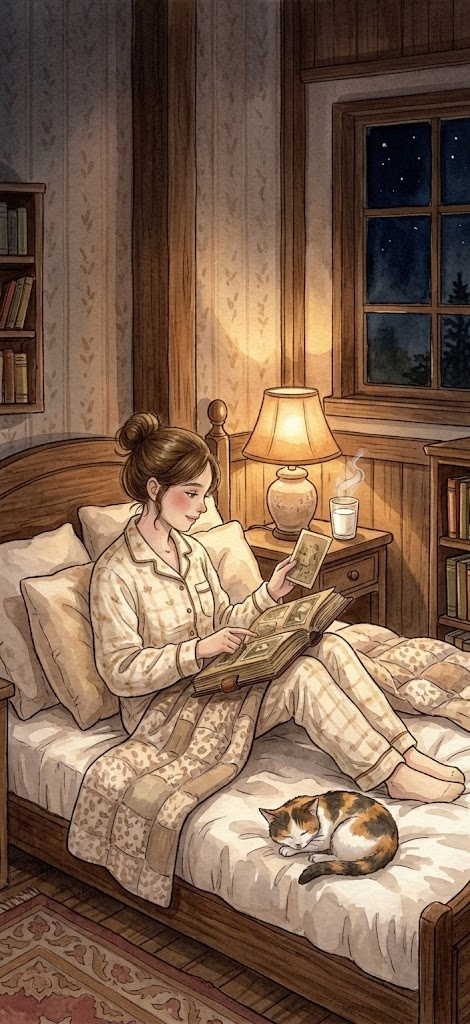
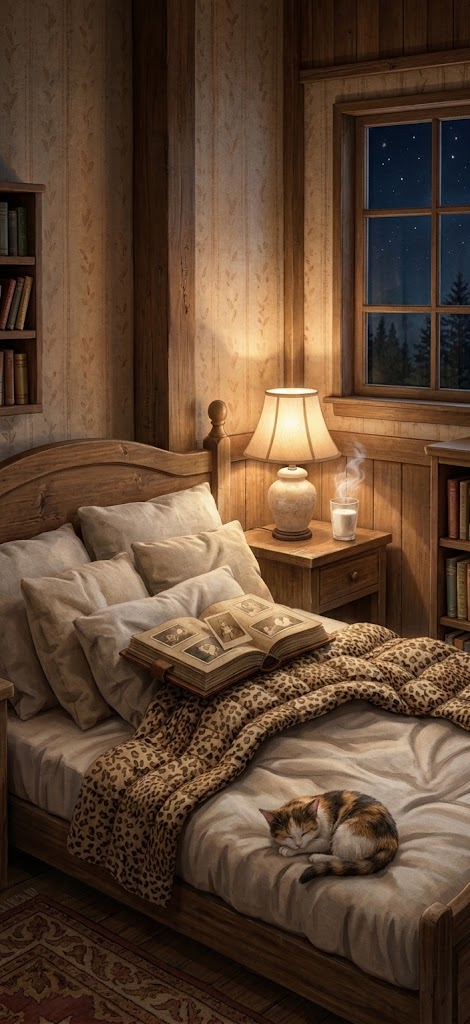
Switch the memory space to the new cabin scenes
- Five new scenes, morning to midnight in one wooden cabin: Summer
  Morning, Autumn Afternoon, Stormy Evening, Winter by the Fireplace and
  Midnight Nostalgia, with effects realigned to each picture
- New storm effect: heavier slanted rain with the odd lightning flash
- The album shelf folds down so the whole room (and the cats) can be seen
- Scenes page and README updated with the new pictures and matching
  prompts

Claude-Session: https://claude.ai/code/session_01RGCSmjgXQj4ifThfyHR9uB

diff --git a/src/app/space/page.tsx b/src/app/space/page.tsx
@@ -18,6 +18,7 @@ function rng(seed: number) {
 /** Animation length per effect: [shortest, extra random spread] in seconds. */
 const DURATION: Record<SceneEffect, [number, number]> = {
   rain: [0.6, 0.5],
+  storm: [0.4, 0.3],
   snow: [7, 6],
   leaves: [6, 4],
   stars: [3, 4],
@@ -30,7 +31,7 @@ const pct = (r: Rect) => ({ left: `${r.left}%`, top: `${r.top}%`, width: `${r.wi
 function Effects({ scene }: { scene: Scene }) {
   const particles = useMemo(() => {
     const r = rng(scene.id.length * 7919);
-    const count = { rain: 46, snow: 40, sun: 14, leaves: 12, stars: 12 }[scene.effect];
+    const count = { rain: 46, storm: 70, snow: 40, sun: 14, leaves: 12, stars: 12 }[scene.effect];
     return Array.from({ length: count }, () => ({
       x: r() * 100,
       y: r() * 100,
@@ -79,6 +80,7 @@ function Effects({ scene }: { scene: Scene }) {
 export default function MemorySpace() {
   const { state, act } = useStore();
   const [picking, setPicking] = useState(false);
+  const [shelfOpen, setShelfOpen] = useState(true);
   const scene = getScene(state.scene);
 
   const mine = state.trips.filter((trip) => state.members.some((m) => m.tripId === trip.id && m.userId === state.me));
@@ -99,34 +101,37 @@ export default function MemorySpace() {
           <button className="space-pill" onClick={() => setPicking(true)}>✦ {scene.name}</button>
         </div>
 
-        <div className="space-shelf">
-          <div className="spread" style={{ alignItems: "baseline" }}>
+        <div className={`space-shelf${shelfOpen ? "" : " closed"}`}>
+          <button className="shelf-head" onClick={() => setShelfOpen(!shelfOpen)} aria-expanded={shelfOpen}>
             <h3>My albums</h3>
-            <span className="tiny muted">
+            <span className="tiny muted grow" style={{ textAlign: "right" }}>
               {finished} on the shelf{shelf.length > finished ? ` · ${shelf.length - finished} in progress` : ""}
             </span>
-          </div>
-          <div className="spines">
-            {shelf.length === 0 && <p className="small muted">Albums appear here when a trip is checked in.</p>}
-            {shelf.map(({ trip, progress, done }) => {
-              const days = Math.round((Date.parse(trip.endDate) - Date.parse(trip.startDate)) / 864e5) + 1;
-              return (
-                <Link
-                  key={trip.id}
-                  href={`/trips/${trip.id}/album`}
-                  className={`spine${done ? "" : " ghost"}`}
-                  style={{
-                    height: `${Math.min(118, 84 + days * 6)}px`,
-                    ["--spine" as string]: THEME_SPINE[trip.albumTheme] ?? THEME_SPINE.film,
-                  }}
-                  title={done ? `${trip.name} — open the album` : `${trip.name} — ${progress.done}/${progress.total} checked in`}
-                >
-                  <span className="spine-title">{trip.destination}</span>
-                  <span className="spine-year">{done ? trip.startDate.slice(2, 4) : `${progress.done}/${progress.total}`}</span>
-                </Link>
-              );
-            })}
-          </div>
+            <span className="shelf-chevron" aria-hidden>⌄</span>
+          </button>
+          {shelfOpen && (
+            <div className="spines">
+              {shelf.length === 0 && <p className="small muted">Albums appear here when a trip is checked in.</p>}
+              {shelf.map(({ trip, progress, done }) => {
+                const days = Math.round((Date.parse(trip.endDate) - Date.parse(trip.startDate)) / 864e5) + 1;
+                return (
+                  <Link
+                    key={trip.id}
+                    href={`/trips/${trip.id}/album`}
+                    className={`spine${done ? "" : " ghost"}`}
+                    style={{
+                      height: `${Math.min(118, 84 + days * 6)}px`,
+                      ["--spine" as string]: THEME_SPINE[trip.albumTheme] ?? THEME_SPINE.film,
+                    }}
+                    title={done ? `${trip.name} — open the album` : `${trip.name} — ${progress.done}/${progress.total} checked in`}
+                  >
+                    <span className="spine-title">{trip.destination}</span>
+                    <span className="spine-year">{done ? trip.startDate.slice(2, 4) : `${progress.done}/${progress.total}`}</span>
+                  </Link>
+                );
+              })}
+            </div>
+          )}
           <div className="ledge" />
         </div>
       </div>

diff --git a/src/lib/scenes.ts b/src/lib/scenes.ts
@@ -1,10 +1,10 @@
 // Memory space scenes (product plan, section 4.9). Each user picks one as
 // their own space; finished trip albums stand on the shelf in front of it.
 //
-// Positions are percentages of the 470×1024 illustration, so the light
+// Positions are percentages of the 470×1024 picture, so the light
 // effects line up with the window, lamp or fire in each picture.
 
-export type SceneEffect = "rain" | "snow" | "sun" | "leaves" | "stars";
+export type SceneEffect = "rain" | "storm" | "snow" | "sun" | "leaves" | "stars";
 
 export interface Rect {
   left: number;
@@ -35,13 +35,40 @@ export interface Scene {
 
 export const SCENES: Scene[] = [
   {
-    id: "rainy-afternoon",
-    name: "Rainy Afternoon",
-    mood: "Rain on the glass, a knit blanket, a warm lamp",
-    src: "/scenes/rainy-afternoon.jpg",
-    effect: "rain",
-    areas: [{ left: 16, top: 9, width: 60, height: 45 }],
-    glows: [{ x: 7, y: 37, size: 70, color: "255, 214, 140" }],
+    id: "summer-morning",
+    name: "Summer Morning",
+    mood: "Sun through linen curtains, an open album on the bed",
+    src: "/scenes/summer-morning.jpg",
+    effect: "sun",
+    areas: [{ left: 18, top: 12, width: 72, height: 58 }],
+    glows: [
+      { x: 50, y: 30, size: 90, color: "255, 246, 214" },
+      { x: 93, y: 82, size: 26, color: "255, 200, 110", flicker: true },
+    ],
+  },
+  {
+    id: "autumn-afternoon",
+    name: "Autumn Afternoon",
+    mood: "Golden woods, a leather sofa, a sleeping cat",
+    src: "/scenes/autumn-afternoon.jpg",
+    effect: "leaves",
+    areas: [{ left: 18, top: 13, width: 66, height: 37 }],
+    glows: [
+      { x: 50, y: 30, size: 80, color: "255, 214, 140" },
+      { x: 92, y: 77, size: 26, color: "255, 200, 110", flicker: true },
+    ],
+  },
+  {
+    id: "stormy-evening",
+    name: "Stormy Evening",
+    mood: "Rain lashing the window, a lamp and a knit blanket",
+    src: "/scenes/stormy-evening.jpg",
+    effect: "storm",
+    areas: [{ left: 18, top: 13, width: 70, height: 36 }],
+    glows: [
+      { x: 85, y: 33, size: 70, color: "255, 214, 140" },
+      { x: 93, y: 80, size: 26, color: "255, 200, 110", flicker: true },
+    ],
   },
   {
     id: "winter-fireplace",
@@ -49,44 +76,21 @@ export const SCENES: Scene[] = [
     mood: "Snow outside, a crackling fire, hot cocoa",
     src: "/scenes/winter-fireplace.jpg",
     effect: "snow",
-    areas: [
-      { left: 17, top: 10, width: 56, height: 26 },
-      { left: 17, top: 36, width: 28, height: 18 },
-    ],
+    areas: [{ left: 18, top: 13, width: 70, height: 35 }],
     glows: [
-      { x: 83, y: 61, size: 70, color: "255, 150, 60", flicker: true },
-      { x: 7, y: 30, size: 55, color: "255, 214, 140" },
-    ],
-  },
-  {
-    id: "slow-sunday-morning",
-    name: "Slow Sunday Morning",
-    mood: "Morning light, white linen, a sleeping cat",
-    src: "/scenes/slow-sunday-morning.jpg",
-    effect: "sun",
-    areas: [{ left: 20, top: 5, width: 70, height: 60 }],
-    glows: [{ x: 50, y: 25, size: 90, color: "255, 244, 214" }],
-  },
-  {
-    id: "autumn-cabin-evening",
-    name: "Autumn Cabin Evening",
-    mood: "Falling leaves, string lights, a vanilla candle",
-    src: "/scenes/autumn-cabin-evening.jpg",
-    effect: "leaves",
-    areas: [{ left: 32, top: 10, width: 55, height: 39 }],
-    glows: [
-      { x: 89, y: 82, size: 34, color: "255, 200, 110", flicker: true },
-      { x: 50, y: 6, size: 90, color: "255, 214, 140" },
+      { x: 13, y: 65, size: 70, color: "255, 150, 60", flicker: true },
+      { x: 85, y: 34, size: 60, color: "255, 214, 140" },
+      { x: 51, y: 68, size: 22, color: "255, 200, 110", flicker: true },
     ],
   },
   {
     id: "midnight-nostalgia",
     name: "Midnight Nostalgia",
-    mood: "An amber lamp, warm milk, soft jazz",
+    mood: "An amber lamp, warm milk, a cat asleep on the quilt",
     src: "/scenes/midnight-nostalgia.jpg",
     effect: "stars",
-    areas: [{ left: 77, top: 26, width: 21, height: 15 }],
-    glows: [{ x: 52, y: 37, size: 80, color: "255, 190, 110" }],
+    areas: [{ left: 74, top: 22, width: 24, height: 16 }],
+    glows: [{ x: 49, y: 31, size: 80, color: "255, 190, 110" }],
   },
 ];
 

diff --git a/src/app/globals.css b/src/app/globals.css
@@ -186,6 +186,11 @@ label.field > span { font-weight: 500; }
   position: absolute; left: 4%; right: 4%; bottom: calc(14px + env(safe-area-inset-bottom)); z-index: 3;
   background: rgba(250,246,239,.78); backdrop-filter: blur(8px); border-radius: 16px; padding: 10px 14px 0; box-shadow: 0 8px 24px rgba(40,25,10,.25);
 }
+.shelf-head { display: flex; align-items: baseline; gap: 8px; width: 100%; padding: 0; min-height: 0; background: none; border: none; text-align: left; }
+.shelf-chevron { font-size: 16px; line-height: 1; color: var(--muted); transition: transform .2s ease; }
+.space-shelf.closed { padding-bottom: 8px; }
+.space-shelf.closed .shelf-chevron { transform: rotate(180deg); }
+.space-shelf.closed .ledge { margin-top: 8px; }
 .spines { display: flex; align-items: flex-end; gap: 6px; min-height: 96px; padding: 8px 2px 0; overflow-x: auto; }
 .spine {
   flex: 0 0 auto; width: 42px; border-radius: 4px 4px 2px 2px; text-decoration: none; color: #fff7ec; position: relative;
@@ -211,6 +216,8 @@ label.field > span { font-weight: 500; }
 .fx { position: absolute; overflow: hidden; pointer-events: none; z-index: 1; }
 .fx i { position: absolute; display: block; }
 .fx-rain i { top: -15%; width: 1px; height: calc(6% + var(--s) * 7%); background: linear-gradient(rgba(255,255,255,0), rgba(235,242,248,.75)); animation: fx-fall linear infinite; }
+.fx-storm i { top: -15%; width: 1.5px; height: calc(8% + var(--s) * 8%); background: linear-gradient(rgba(255,255,255,0), rgba(225,235,245,.7)); animation: fx-fall-storm linear infinite; }
+.fx-storm::after { content: ""; position: absolute; inset: 0; background: #fff; opacity: 0; animation: fx-flash 11s linear infinite; }
 .fx-snow i { top: -5%; width: calc(3px + var(--s) * 4px); aspect-ratio: 1; border-radius: 50%; background: rgba(255,255,255,.9); animation: fx-snow linear infinite; }
 .fx-leaves i { top: -8%; width: calc(7px + var(--s) * 6px); height: calc(4px + var(--s) * 3px); border-radius: 60% 0; background: hsl(calc(20 + var(--s) * 25) 75% 52%); animation: fx-leaf linear infinite; }
 .fx-stars i { width: calc(2px + var(--s) * 2px); aspect-ratio: 1; border-radius: 50%; background: #fff6dd; box-shadow: 0 0 6px #fff6dd; animation: fx-twinkle ease-in-out infinite; }
@@ -219,6 +226,8 @@ label.field > span { font-weight: 500; }
 .fx-glow { position: absolute; aspect-ratio: 1; transform: translate(-50%, -50%); pointer-events: none; z-index: 1; mix-blend-mode: screen; animation: fx-breathe 6s ease-in-out infinite; }
 .fx-glow.flicker { animation: fx-flicker 1.8s ease-in-out infinite; }
 @keyframes fx-fall { to { top: 110%; transform: translateX(-6px); } }
+@keyframes fx-fall-storm { to { top: 110%; transform: translateX(-28px); } }
+@keyframes fx-flash { 0%, 86% { opacity: 0; } 87% { opacity: .45; } 88% { opacity: 0; } 90% { opacity: .3; } 92%, 100% { opacity: 0; } }
 @keyframes fx-snow { 0% { top: -5%; transform: translateX(0); } 50% { transform: translateX(10px); } 100% { top: 105%; transform: translateX(-4px); } }
 @keyframes fx-leaf { 0% { top: -8%; transform: translateX(0) rotate(0); } 50% { transform: translateX(26px) rotate(160deg); } 100% { top: 108%; transform: translateX(-6px) rotate(320deg); } }
 @keyframes fx-twinkle { 0%, 100% { opacity: .2; } 50% { opacity: 1; } }
@@ -226,7 +235,7 @@ label.field > span { font-weight: 500; }
 @keyframes fx-beam { 0%, 100% { opacity: .6; } 50% { opacity: 1; } }
 @keyframes fx-breathe { 0%, 100% { opacity: .75; } 50% { opacity: 1; } }
 @keyframes fx-flicker { 0%, 100% { opacity: .9; } 20% { opacity: .65; } 45% { opacity: 1; } 70% { opacity: .75; } }
-@media (prefers-reduced-motion: reduce) { .fx, .fx i, .fx-glow { animation: none !important; } .fx-rain i, .fx-snow i, .fx-leaves i { display: none; } }
+@media (prefers-reduced-motion: reduce) { .fx, .fx i, .fx-glow { animation: none !important; } .fx-rain i, .fx-storm i, .fx-snow i, .fx-leaves i { display: none; } }
 
 /* memory space entry on the home page */
 .space-card { position: relative; display: block; height: 150px; border-radius: var(--radius); overflow: hidden; text-decoration: none; color: #fff; }

diff --git a/src/lib/seed.ts b/src/lib/seed.ts
@@ -130,7 +130,7 @@ export function demoState(): State {
     version: 1,
     lang: "en",
     me: ME,
-    scene: "rainy-afternoon",
+    scene: "summer-morning",
     users,
     trips: [
       {

diff --git a/docs/scenes/README.md b/docs/scenes/README.md
@@ -1,54 +1,53 @@
 # Memory space scenes
 
-The memory space (product plan, section 4.9) is each user's own cozy scene to come back to, with their finished trip albums standing on a shelf in front of it. It lives at `/space` in the app; pick a scene with the button at the top right.
+The memory space (product plan, section 4.9) is each user's own cozy room to come back to, with their finished trip albums standing on a shelf in front of it. It lives at `/space` in the app; pick a scene with the button at the top right.
 
 | | | | | |
 | :---: | :---: | :---: | :---: | :---: |
-| <img src="../../public/scenes/rainy-afternoon.jpg" alt="Rainy Afternoon"> | <img src="../../public/scenes/winter-fireplace.jpg" alt="Winter by the Fireplace"> | <img src="../../public/scenes/slow-sunday-morning.jpg" alt="Slow Sunday Morning"> | <img src="../../public/scenes/autumn-cabin-evening.jpg" alt="Autumn Cabin Evening"> | <img src="../../public/scenes/midnight-nostalgia.jpg" alt="Midnight Nostalgia"> |
-| **Rainy Afternoon** | **Winter by the Fireplace** | **Slow Sunday Morning** | **Autumn Cabin Evening** | **Midnight Nostalgia** |
+| <img src="../../public/scenes/summer-morning.jpg" alt="Summer Morning"> | <img src="../../public/scenes/autumn-afternoon.jpg" alt="Autumn Afternoon"> | <img src="../../public/scenes/stormy-evening.jpg" alt="Stormy Evening"> | <img src="../../public/scenes/winter-fireplace.jpg" alt="Winter by the Fireplace"> | <img src="../../public/scenes/midnight-nostalgia.jpg" alt="Midnight Nostalgia"> |
+| **Summer Morning** | **Autumn Afternoon** | **Stormy Evening** | **Winter by the Fireplace** | **Midnight Nostalgia** |
+
+The five run from morning to midnight and through the seasons, all in the same wooden cabin, so switching scenes feels like moving around one home.
 
 ## In the app
 
 - **The scene** fills the screen (a centered phone-shaped stage on desktop, with a blurred copy behind it).
-- **The shelf** at the bottom holds one spine per trip, colored by the album's theme. Finished albums are solid; trips still in progress are dashed outlines with their check-in count. Tap a spine to open the album.
-- **Light motion** plays over each picture, lined up with its window, lamp or fire. It turns off when the device asks for reduced motion.
+- **The shelf** at the bottom holds one spine per trip, colored by the album's theme. Finished albums are solid; trips still in progress are dashed outlines with their check-in count. Tap a spine to open the album, or tap "My albums" to fold the shelf down and see the whole room.
+- **Light motion** plays over each picture, lined up with its window, lamp, candle or fire. It turns off when the device asks for reduced motion.
 
 | Scene | Motion |
 | --- | --- |
-| Rainy Afternoon | Rain streaks on the window, the floor lamp's glow breathing |
-| Winter by the Fireplace | Snow falling outside, firelight flickering, lamp glow |
-| Slow Sunday Morning | A slow sunbeam and dust motes in the light |
-| Autumn Cabin Evening | Leaves blowing past the window, candle flicker, string-light glow |
+| Summer Morning | Dust motes drifting in the sunlight, the candle flickering |
+| Autumn Afternoon | Leaves blowing past the window, warm light, the candle flickering |
+| Stormy Evening | Heavy slanted rain on the window, the occasional flash of lightning, lamp glow |
+| Winter by the Fireplace | Snow falling outside, firelight and candlelight flickering, lamp glow |
 | Midnight Nostalgia | Stars twinkling in the window, the bedside lamp's glow |
 
 Scene images are in `public/scenes/` (470×1024). The positions of the effects are set per scene in `src/lib/scenes.ts`; adding a scene means adding an image and an entry there.
 
-## Prompts for AI image tools
+## Prompts for more scenes
 
-Use these prompts to make more scenes in the same spirit (Midjourney, DALL·E, Ideogram or similar). Each prompt ends with the same style line so the results match; the watercolor line below matches the current set.
+To add scenes that match this set, use the prompts below in Midjourney, DALL·E, Ideogram or similar. Each ends with the same style line so the results belong together.
 
-**Shared style line (watercolor, matches the current set):**
-`cozy watercolor and ink illustration, soft warm palette, gentle lighting, storybook feel, no text, tall 9:19.5 phone composition`
+**Shared style line:**
+`photorealistic cozy interior, warm wooden cabin, soft natural light, no people, rich textures, cinematic, no text, tall 9:19.5 phone composition`
 
-**Alternative style line (photographic):**
-`cinematic photograph, 35mm film, shallow depth of field, soft natural light, warm color grade, no text, tall 9:19.5 phone composition`
+1. **Summer Morning**
+   > A sunlit attic bedroom in a wooden cabin on a summer morning. Sheer white linen curtains framing a tall open window onto bright green trees and blue sky. An unmade bed with white linen and soft pillows, an open photo album with loose vintage photos spread across the duvet, a knit throw at the foot. Wildflowers in a ceramic jug on the windowsill, a floor lamp, an old wooden trunk with a candle. + style line
 
-1. **Rainy Afternoon**
-   > A young woman curled up on a soft cream sofa by a large window on a drizzly autumn afternoon, a thick chunky-knit blanket over her legs, slowly turning the pages of a thick old photo album on her lap, smiling faintly as her fingertip traces the edge of a photo. Raindrops run down the glass, only a warm yellow floor lamp is on, a steaming cup of milk tea on the side table. Mood: rain sounds, cream tones, knit blanket, warm lamp, nostalgia. + style line
+2. **Autumn Afternoon**
+   > A wooden cabin living room on an autumn afternoon. A wide bay window opened onto a golden forest, sunlight streaming in. A worn brown leather Chesterfield sofa with a plaid blanket and a closed photo album resting on the cushion. A calico cat asleep on a wooden trunk coffee table beside a lit candle. String lights along the beams, bookshelves on both sides. + style line
 
-2. **Winter by the Fireplace**
-   > Heavy snow falling outside a dark window at night, a warm room with a glowing brick fireplace. A young woman in an oversized wool sweater and fluffy socks sits on a thick rug, leaning back against a soft sofa, an old photo album open on her knees; she holds one photo up to the firelight. A mug of hot cocoa and freshly baked cookies beside her, firelight flickering on the pages, wooden furniture. Mood: fireplace, snowy night, warmth. + style line
+3. **Stormy Evening**
+   > A wooden cabin at dusk during a storm. Rain lashing against a bay window, trees bending in the wind outside. A cream tufted sofa with a chunky knit blanket draped over it, an old book and a mug on the window seat. A glowing floor lamp, string lights along the beams, a candle on a wooden trunk, bookshelves. Safe and warm inside. + style line
 
-3. **Slow Sunday Morning**
-   > A lazy Sunday morning with no alarm, soft sunlight streaming through white linen curtains onto a messy but cozy bed. A young woman in loose cotton pajamas sits among fluffy pillows, hugging a photo album full of memories and slowly turning faded photos. A cat curled up asleep at the edge of the bed, half a cup of warm coffee on the nightstand, the whole world slowed down. Mood: morning light, white bedding, lazy, cat, softness. + style line
-
-4. **Autumn Cabin Evening**
-   > A late-autumn evening inside a warm log cabin in the forest. Golden leaves blowing past the window, soft string lights and wooden furniture inside. A young woman sits cross-legged on a dark brown leather sofa with a plaid blanket around her shoulders, a vanilla-scented candle burning on the wooden coffee table. She lifts an old photo album from the table and pulls out a photo to read the handwritten date on the back. Mood: forest cabin, autumn leaves, scented candle, vintage, peaceful. + style line
+4. **Winter by the Fireplace**
+   > A wooden cabin on a snowy winter night. Heavy snow falling past a bay window. A stone fireplace with a crackling fire, a garland with red ornaments and candles on the mantel. A chunky knit rug with an old photo album open on it and loose black-and-white photos scattered nearby. Hot cocoa and cookies on the window seat, a tartan blanket on a cream armchair, a glowing floor lamp, string lights. + style line
 
 5. **Midnight Nostalgia**
-   > Late at night, a bedroom lit only by a small amber bedside lamp. A young woman in soft long-sleeved pajamas sits on a bed with cream-white sheets, leaning against big fluffy pillows, a thick photo album on her lap, pausing on an old photo as she remembers. A glass of warm milk on the nightstand, a record player softly playing jazz in the corner, moon and stars through the window. Mood: amber light, midnight, warm milk, jazz, intimate. + style line
+   > A wooden cabin bedroom late at night. A small amber bedside lamp the only light, a glass of warm milk steaming on the nightstand. A wooden bed with plump pillows and a leopard-print quilt, an old photo album open on the pillows, a calico cat asleep at the foot of the bed. A small window with stars and dark pines, bookshelves in the corner. + style line
 
 **Tips**
-- Add `--ar 9:19` in Midjourney, or ask for a tall phone-sized image (at least 1170×2532 for sharp results on modern phones).
-- To match the current set, pass one of the images below as a style reference (`--sref <image url>` in Midjourney).
-- Keep the bottom quarter calm (rug, floor, blanket): the album shelf sits over it in the app.
+- Add `--ar 9:19` in Midjourney, or ask for a tall phone-sized image. At least 1170×2532 keeps it sharp on modern phones.
+- To match the current set, pass one of the images above as a style reference (`--sref <image url>` in Midjourney).
+- Keep the bottom fifth quiet (floor, rug, the foot of a bed): the album shelf sits over it in the app.

diff --git a/README.md b/README.md
@@ -113,13 +113,13 @@ public/                  PWA manifest, icon, service worker, scene images
 
 ## 🛋 Memory space
 
-Your own cozy scene to come back to, with every finished trip album standing on the shelf. Pick from five watercolor scenes, each with its own light motion (rain, snow, sunlight, falling leaves, stars). Open it from **My memory space** on the home screen. Details and prompts for making more scenes are in [`docs/scenes`](docs/scenes).
+Your own cozy room to come back to, with every finished trip album standing on the shelf. Pick from five scenes, from a summer morning to a snowy night, each with its own light motion (sunlight, falling leaves, a storm, snow, stars). Open it from **My memory space** on the home screen. Details and prompts for making more scenes are in [`docs/scenes`](docs/scenes).
 
 <p>
-  <img src="docs/images/space.jpg" width="24%" alt="Memory space: Winter by the Fireplace with the album shelf">
-  <img src="public/scenes/rainy-afternoon.jpg" width="14.5%" alt="Rainy Afternoon">
-  <img src="public/scenes/slow-sunday-morning.jpg" width="14.5%" alt="Slow Sunday Morning">
-  <img src="public/scenes/autumn-cabin-evening.jpg" width="14.5%" alt="Autumn Cabin Evening">
+  <img src="docs/images/space.jpg" width="24%" alt="Memory space: Autumn Afternoon with the album shelf">
+  <img src="public/scenes/summer-morning.jpg" width="14.5%" alt="Summer Morning">
+  <img src="public/scenes/stormy-evening.jpg" width="14.5%" alt="Stormy Evening">
+  <img src="public/scenes/winter-fireplace.jpg" width="14.5%" alt="Winter by the Fireplace">
   <img src="public/scenes/midnight-nostalgia.jpg" width="14.5%" alt="Midnight Nostalgia">
 </p>
 
